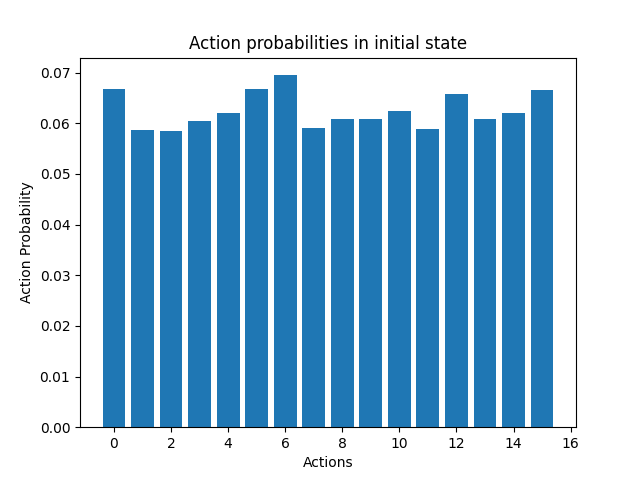
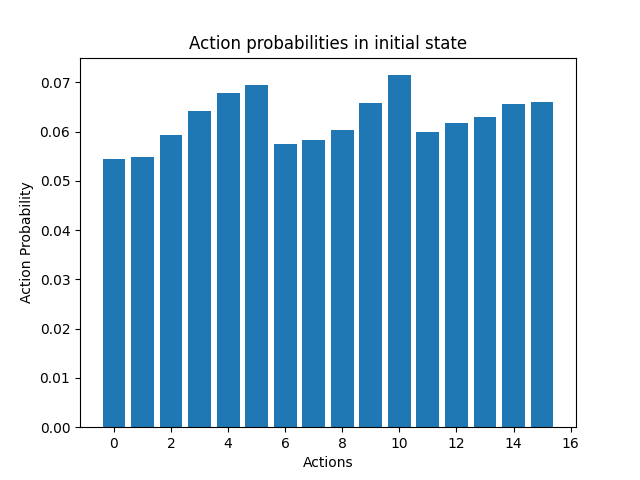
Implemented A2C draft and started parallel version of enviroment

diff --git a/CortaFuegos/algorithms/a2c.py b/CortaFuegos/algorithms/a2c.py
@@ -1,0 +1,149 @@
+import os
+import torch
+import matplotlib.pyplot as plt
+from tqdm import tqdm
+from torch import nn as nn
+from torch.optim import AdamW
+import numpy as np
+from enviroment.firegrid import FireGrid
+import torch.nn.functional as F
+
+# We create the enviroment:
+
+env = FireGrid(20)
+start_state = env.reset()
+space_dims = env.get_space_dims()[0]**2
+action_dims = env.get_action_space_dims()
+
+# We create the policy:
+policy = nn.Sequential(
+    nn.Linear(space_dims, 512),
+    nn.LeakyReLU(),
+    nn.Linear(512, 128),
+    nn.LeakyReLU(),
+    nn.Linear(128, 64),
+    nn.LeakyReLU(),
+    nn.Linear(64, action_dims[0]),
+    nn.Softmax(dim = -1)
+)
+
+# We create the value network:
+value_net= nn.Sequential(
+    nn.Linear(space_dims, 512),
+    nn.LeakyReLU(),
+    nn.Linear(512, 128),
+    nn.LeakyReLU(),
+    nn.Linear(128, 64),
+    nn.LeakyReLU(),
+    nn.Linear(64, 1)
+)
+
+# Let's check the policy's output in the initial state
+start_tensor = torch.tensor(start_state.reshape(1, 400)).float()
+a = policy(start_tensor)
+f1 = plt.figure()
+plt.bar(np.arange(16), a.detach().numpy().squeeze())
+plt.xlabel("Actions") 
+plt.ylabel("Action Probability") 
+plt.title("Action probabilities in initial state")
+plt.savefig("figures/a2c/initial_probs.png")
+plt.show()
+
+# Let's check the value for the initial state:
+start_tensor = torch.tensor(start_state.reshape(1, 400)).float()
+a = value_net(start_tensor).detach().numpy().squeeze()
+print(f"Value of initial state before training: {a}")
+
+
+# A2C algorithm:
+def actor_critic(policy, value_net, episodes, alpha = 1e-4, gamma = 0.99):
+    policy_optim = AdamW(policy.parameters(), lr = alpha)
+    value_net_optim = AdamW(value_net.parameters(), lr = alpha)
+    stats = {"Actor Loss": [], "Critic Loss": [], "Returns": []}
+    
+    for episode in tqdm(range(1, episodes + 1)):
+        state = env.reset()
+        done = False
+        ep_return  = 0
+        I = 1.
+        while not done:
+            action = policy(torch.tensor(state.reshape(1, 400)).float()).multinomial(1).detach()
+            next_state, reward, done = env.step(action.item())
+            value = value_net(torch.tensor(state.reshape(1, 400)).float())
+            target = reward + gamma * value_net(torch.tensor(next_state.reshape(1, 400)).float()).detach()
+            critic_loss = F.mse_loss(value, target)
+            value_net.zero_grad()
+            critic_loss.backward()
+            value_net_optim.step()
+            
+            advantage = (target - value).detach()
+            probs = policy(torch.tensor(state.reshape(1, 400)).float())
+            log_probs = torch.log(probs + 1e-6)
+            action_log_probs = log_probs.gather(1, action)
+            entropy = -torch.sum(probs * log_probs, dim = -1, keepdim = True)
+            actor_loss = -I * action_log_probs * advantage - 0.01*entropy
+            actor_loss = actor_loss.mean()
+            policy.zero_grad()
+            actor_loss.backward()
+            policy_optim.step()
+            
+            ep_return += reward
+            state = next_state
+            I *= gamma
+        stats["Actor Loss"].append(actor_loss.item())
+        stats["Critic Loss"].append(critic_loss.item())
+        stats["Returns"].append(ep_return)
+    return stats
+
+stats = actor_critic(policy, value_net, 5000)
+
+figure2 = plt.figure()
+plt.clf()
+plt.plot(np.arange(5000), stats["Returns"])
+plt.xlabel("Episode") 
+plt.ylabel("Returns") 
+plt.title("Returns for 5000 episodes")
+plt.savefig("figures/a2c/returns.png")
+plt.show() 
+
+
+figure3 = plt.figure()
+plt.clf()
+plt.plot(np.arange(5000), stats["Actor Loss"])
+plt.xlabel("Episode") 
+plt.ylabel("Loss") 
+plt.title("Loss for 5000 episodes")
+plt.savefig("figures/a2c/actor_loss.png")
+plt.show() 
+
+figure4 = plt.figure()
+plt.clf()
+plt.plot(np.arange(5000), stats["Critic Loss"])
+plt.xlabel("Episode") 
+plt.ylabel("Loss") 
+plt.title("Loss for 5000 episodes")
+plt.savefig("figures/a2c/critic_loss.png")
+plt.show() 
+
+
+
+
+# Let's check the policy's output in the initial state after training
+start_state = env.reset()
+start_tensor = torch.tensor(start_state.reshape(1, 400)).float()
+a = policy(start_tensor)
+f1 = plt.figure()
+plt.bar(np.arange(16), a.detach().numpy().squeeze())
+plt.xlabel("Actions") 
+plt.ylabel("Action Probability") 
+plt.title("Action probabilities in initial state after training")
+plt.savefig("figures/a2c/initial_probs_ater_training.png")
+plt.show()
+
+
+# Let's check the value for the initial state after training:
+start_tensor = torch.tensor(start_state.reshape(1, 400)).float()
+a = value_net(start_tensor).detach().numpy().squeeze()
+print(f"Value of initial state after training: {a}")
+
+
